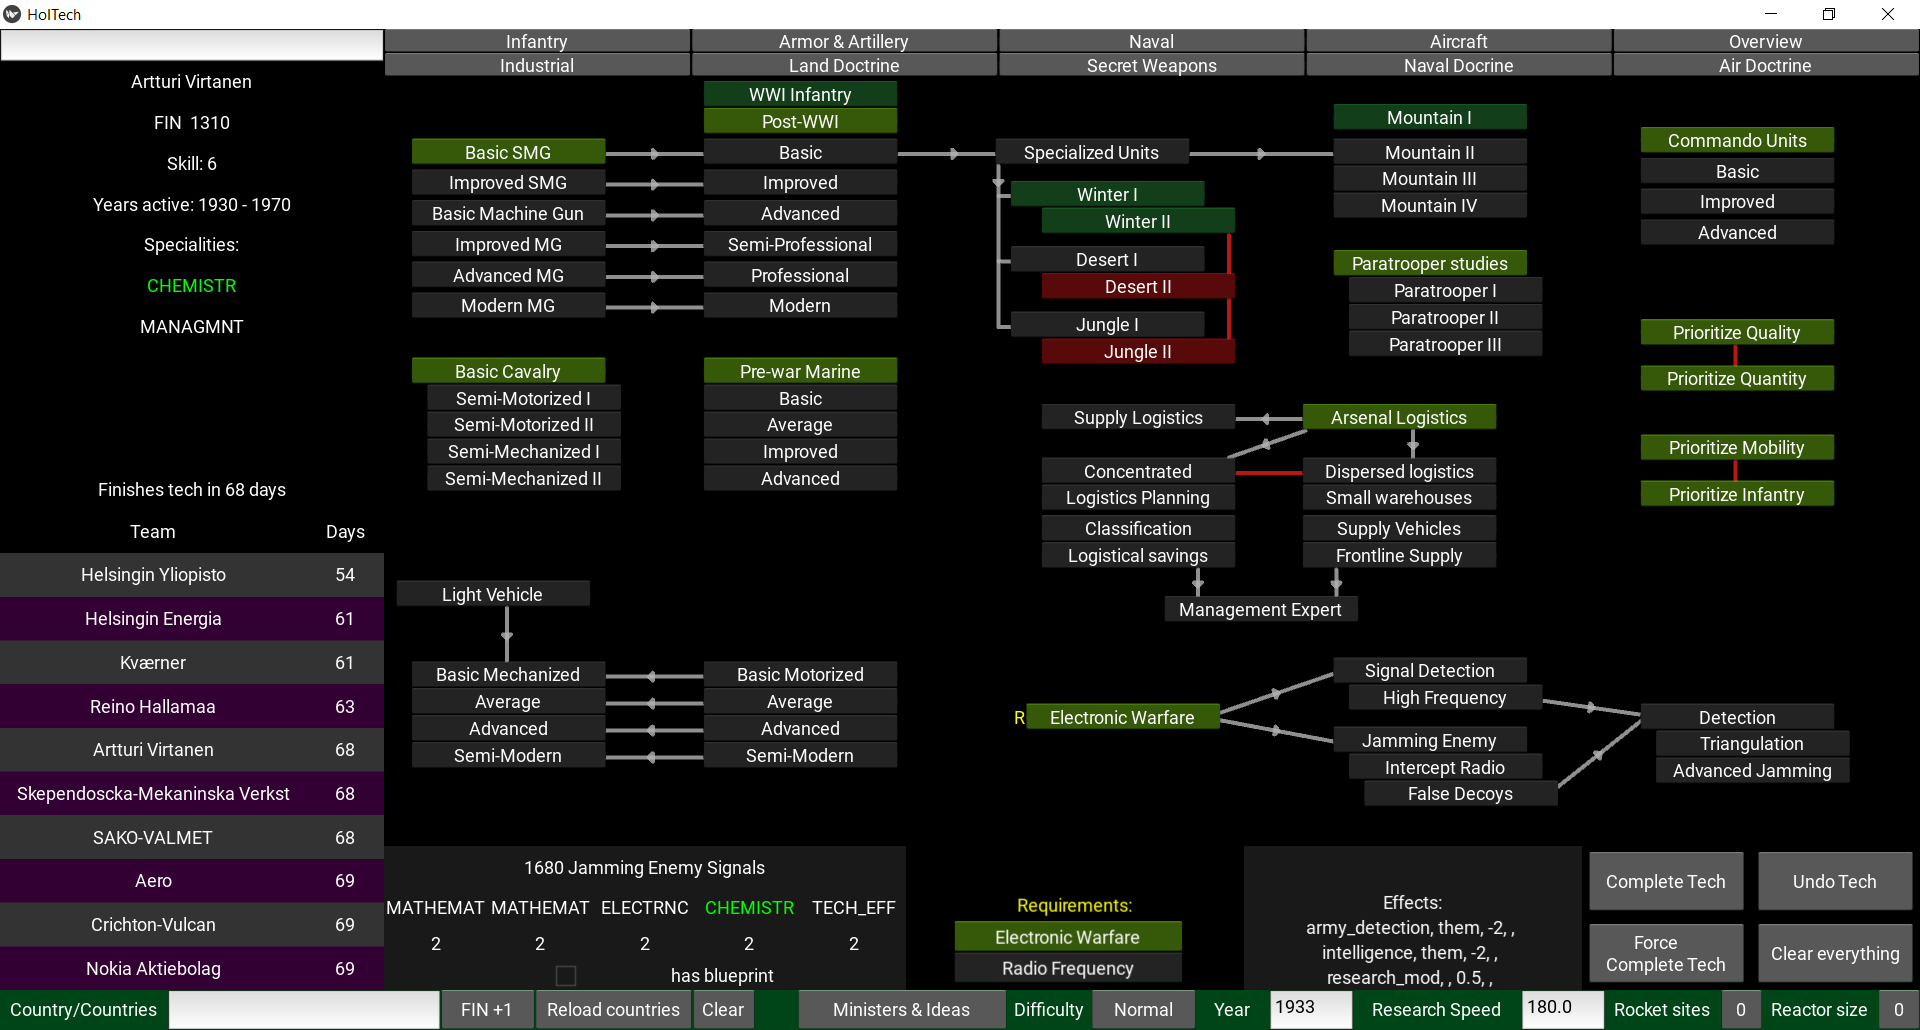
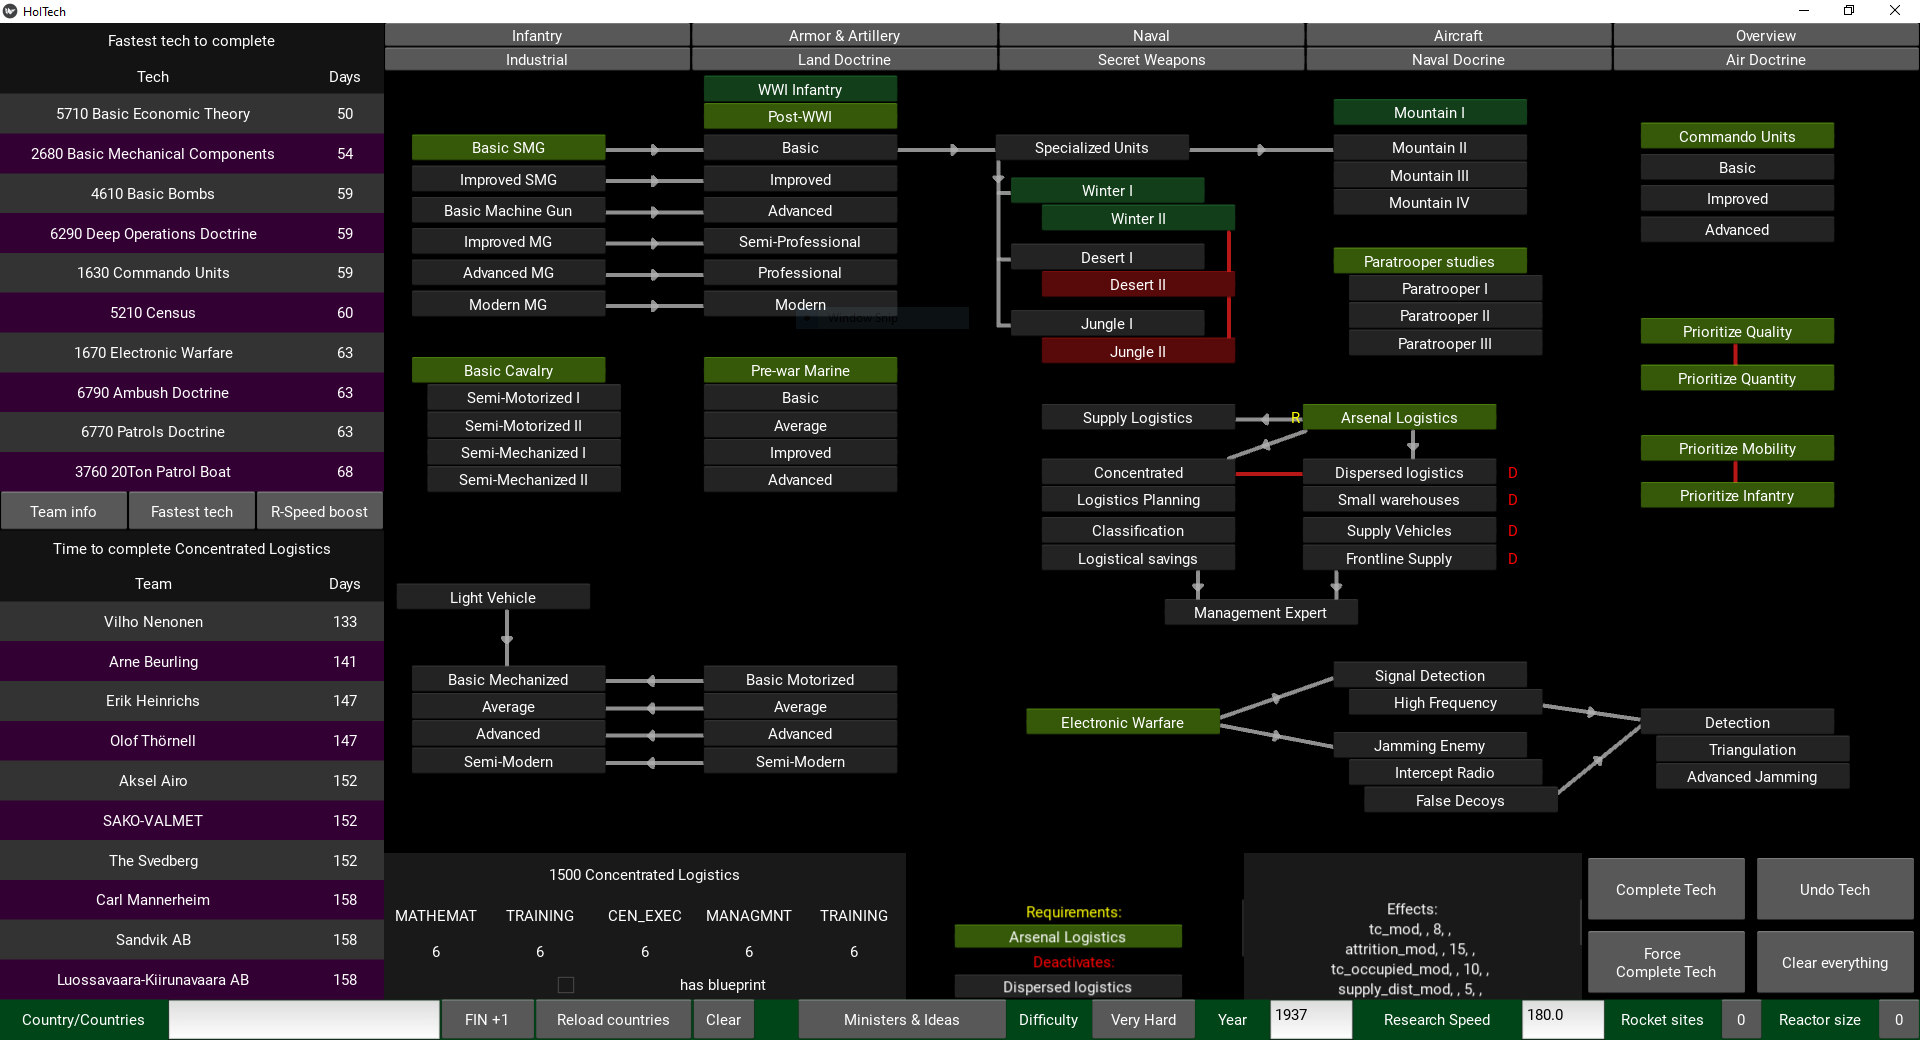
updated readme

diff --git a/main.py b/main.py
@@ -2005,6 +2005,7 @@ class MainFullScreen(BoxLayout):
         # ctrl + r to reload country
         elif keycode == 114 and "ctrl" in modifiers:
             self.statusbar.reload_countries(self.statusbar.reload_countries_button)
+        # 1 2 3 to change the view top left
         elif keycode == 49 and "ctrl" in modifiers:
             self.mainscreen.teamscreen.change_upperteamscreen_by_index(0)
         elif keycode == 50 and "ctrl" in modifiers:

diff --git a/readme.md b/readme.md
@@ -19,7 +19,21 @@ Once the requirements are satisfied, you can start the app by running
 python main.py
 ```
 
+
+#### Some notes
+
 Note that the requirements for secret weapons technologies are misleading, because they also require invention events to activate and these inventions may have requirements outside of the technology system. For similar reasons post-war technologies have been left out for now (also not having post-war technologies frees up a lot of space on the screen).
+
+#### Shortcut keys
+
+- CTRL + C completes tech (if possible)
+- CTRL + F completes tech regardless of any limitations
+- CTRL + U undos selected tech (if it is researched)
+- CTRL + R reloads country/countries
+
+- CTRL + 1 switches to Team Info view on the top left
+- CTRL + 2 switches to Fastest Tech view on the top left
+- CTRL + 3 switches to Fastest Tech view on the top left
 
 # A brief look into the research system
 
